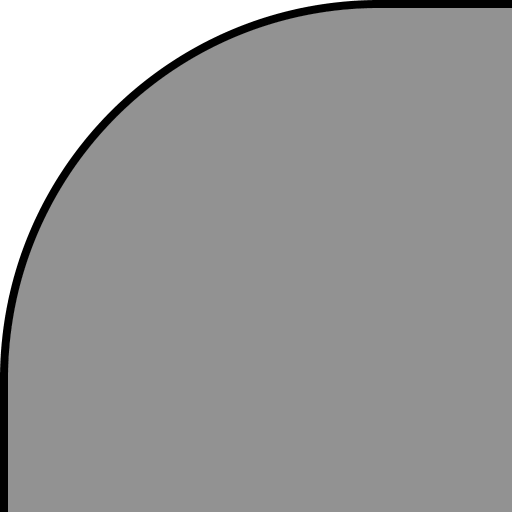
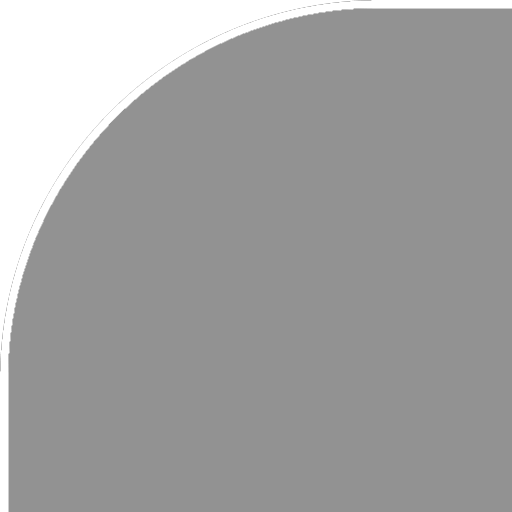
Push

Changed region(s): [[0.3438, 0.0, 1.0, 0.125], [0.0, 0.3438, 0.125, 1.0], [0.125, 0.125, 0.3438, 0.3438]]

diff --git a/game/guis/FPS_HUD.java b/game/guis/FPS_HUD.java
@@ -27,12 +27,22 @@ public class FPS_HUD extends GUI {
 
 		ImageComponent left_side = new ImageComponent(this, side);
 		ImageComponent right_side = new ImageComponent(this, side);
-		
-		Vector2f cornerSize = Maths.getFrom720toCurrentDisplaySize(Maths.getSqaireSize(200));
-		System.out.println(cornerSize);
+
+		Vector2f cornerSize = Maths.getFrom720toCurrentDisplaySize(new Vector2f(1280 * 0.1f, 720 * 0.065f));
+		Vector2f cornerSize2 = Maths.getFrom720toCurrentDisplaySize(new Vector2f(1280 * 0.065f, 720 * 0.1f));
 		left_corner.setRotation(-90);
-		left_corner.setPosition(0.9f, 0.9f);
+		left_corner.setPosition(0.2f, 0.9f);
 		left_corner.setSize(cornerSize.x, cornerSize.y);
+
+		right_corner.setRotation(0);
+		right_corner.setPosition(0.8f, 0.9f);
+		right_corner.setSize(cornerSize2.x, cornerSize2.y);
+
+		Vector2f leftMidPosition = new Vector2f(left_mid.getPosition().x - left_corner.getSizeOpenGL().x,
+				left_mid.getPosition().y - left_corner.getSizeOpenGL().y);
+		left_mid.setSize(new Vector2f(300, 300));
+		left_mid.setPosition(leftMidPosition.x, leftMidPosition.y);
+		System.out.println(left_mid.getPosition());
 	}
 
 }

diff --git a/src/utils/maths/Maths.java b/src/utils/maths/Maths.java
@@ -47,7 +47,6 @@ public class Maths {
 	}
 
 	public static Vector2f getNormalizedSize(float sizeX, float sizeY) {
-
 		float xFac = Display.getWidth() / 1280;
 		float yFac = Display.getHeight() / 720;
 
@@ -144,12 +143,6 @@ public class Maths {
 	public static Vector3f linearInterpolation(Vector3f v1, Vector3f v2, float blend) {
 		return new Vector3f(linearInterpolation(v1.x, v2.x, blend), linearInterpolation(v1.y, v2.y, blend),
 				linearInterpolation(v1.z, v2.z, blend));
-	}
-
-	public static Vector2f getSqaireSize(float i) {
-		float ratio = Display.getHeight() / Display.getWidth();
-		System.out.println(Display.getHeight() / Display.getWidth());
-		return new Vector2f(i * ratio, i);
 	}
 
 }

diff --git a/src/images/Image.java b/src/images/Image.java
@@ -18,7 +18,7 @@ public class Image {
 	public float rotation = 0;
 
 	public Image(SourceFile texture) {
-		this.texture = ModelLoader.loadTexture(texture); 
+		this.texture = ModelLoader.loadTexture(texture);
 	}
 
 	public Image(SourceFile texture, float x, float y) {
@@ -116,6 +116,12 @@ public class Image {
 	public void setPosition(float x, float y) {
 		this.x = x;
 		this.y = y;
+	}
+
+	public Vector2f getSizeOpenGL() {
+		float posX = (getX() - 0.5f) * 2.0f + scale * texture.getWidth() / Display.getWidth();
+		float posY = (getY() - 0.5f) * -2.0f - scale * texture.getHeight() / Display.getHeight();
+		return new Vector2f(posX, posY);
 	}
 
 }

diff --git a/src/guis/ImageComponent.java b/src/guis/ImageComponent.java
@@ -57,5 +57,13 @@ public class ImageComponent extends GUIComponent {
 	public float getRotation() {
 		return img.getRotation();
 	}
+	
+	public Vector2f getPosition() {
+		return new Vector2f(x, y);
+	}
+	
+	public Vector2f getSizeOpenGL() {
+		return img.getSizeOpenGL();
+	}
 
 }
